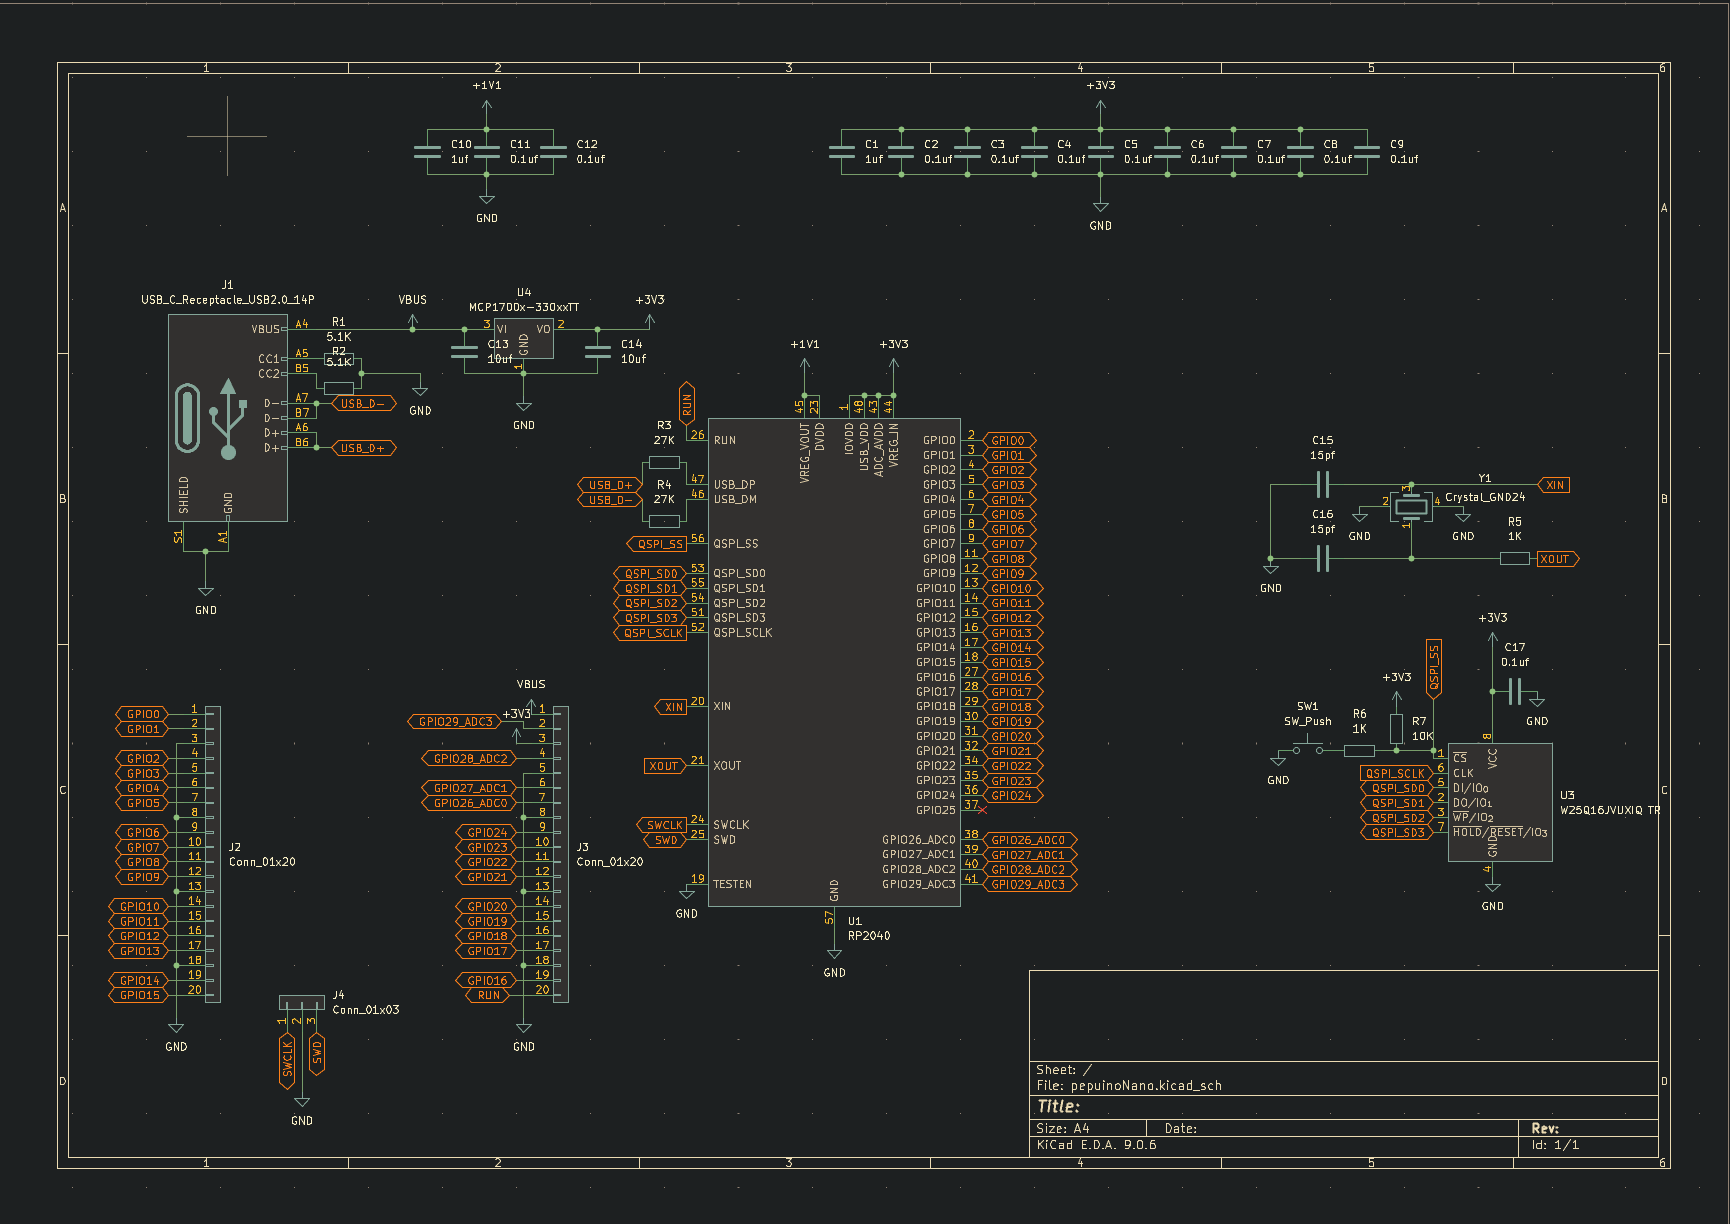
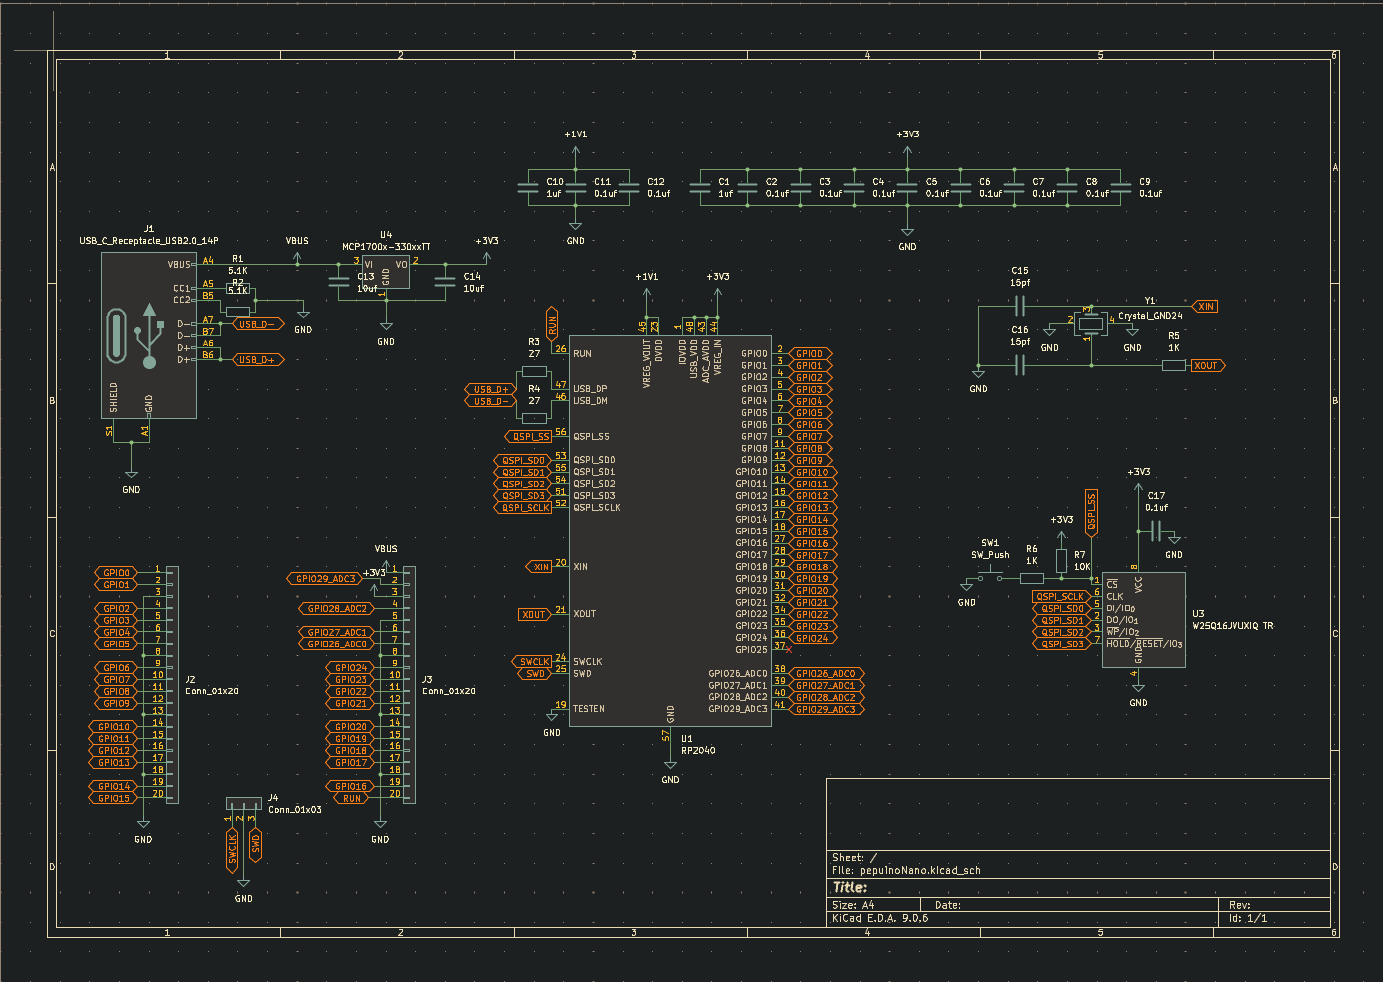
update readme.md plus update pictures!

diff --git a/README.md b/README.md
@@ -4,6 +4,8 @@ This is a develpment board, that is ahead of its time, featuring and amazing des
 
 ## Images!!
 
+![Project done](images/projectDone.png)
+
 ### Renders
 ![Render front](images/renderFront.png) 
 ![Render back](images/renderBack.png) 
